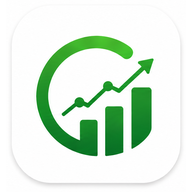
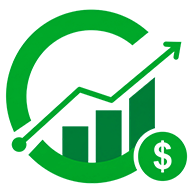
Novos icones

diff --git a/index.html b/index.html
@@ -5,8 +5,8 @@
  <meta charset="UTF-8">
  <meta name="viewport" content=" width=device-width, initial-scale=1.0">
  <title>Controle Aí </title>
- <link rel="icon" href="icon.png" type="image/png">
- <link rel="apple-touch-icon" href="icon.png">
+ <link rel="icon" href="icon-192.png" type="image/png">
+ <link rel="apple-touch-icon" href="icon-192.png">
  <link rel="manifest" href="manifest.json">
  <meta name="theme-color" content="#2e7d32">
  <meta name="apple-mobile-web-app-capable" content="yes">
@@ -1939,6 +1939,20 @@
  border-color: #4caf50
  }
 
+ .frow input[type="date"]::-webkit-calendar-picker-indicator {
+ cursor: pointer;
+ opacity: .6;
+ transition: opacity .15s
+ }
+
+ .frow input[type="date"]::-webkit-calendar-picker-indicator:hover {
+ opacity: 1
+ }
+
+ body.dark input[type="date"] {
+ color-scheme: dark
+ }
+
  body.dark .add-tag-input {
  background: #131f19;
  color: #e0e0e0;
@@ -2073,67 +2087,95 @@
  color: #81c784
  }
 
- /* --- Novo CSS para os Insights Anuais --- */
+ /* --- Cards de KPI do mês --- */
 .stats-grid {
   display: grid;
-  grid-template-columns: repeat(3, 1fr);
-  gap: 12px;
+  grid-template-columns: repeat(4, 1fr);
+  gap: 8px;
   margin-top: 14px;
 }
 
-@media(max-width: 768px) {
+@media(max-width: 900px) {
   .stats-grid {
-    grid-template-columns: repeat(2, 1fr); /* 2 colunas no celular */
+    grid-template-columns: repeat(3, 1fr);
   }
 }
 
-@media(max-width: 400px) {
+@media(max-width: 640px) {
   .stats-grid {
-    grid-template-columns: 1fr; /* 1 coluna em telas muito pequenas */
+    grid-template-columns: repeat(2, 1fr);
+  }
+}
+
+@media(max-width: 380px) {
+  .stats-grid {
+    grid-template-columns: 1fr;
   }
 }
 
 .stat-card {
   background: var(--card-bg, #fff);
   border: 1.5px solid var(--border);
-  border-radius: 16px;
-  padding: 16px;
-  transition: all 0.2s ease;
-  cursor: pointer;
+  border-radius: 12px;
+  padding: 10px 12px;
+  transition: border-color .15s, transform .15s;
+  cursor: default;
   position: relative;
   overflow: hidden;
   display: flex;
   flex-direction: column;
-  justify-content: space-between;
+  gap: 6px;
 }
 
 .stat-card:hover {
-  transform: translateY(-4px);
-  box-shadow: 0 8px 24px rgba(0, 0, 0, 0.08);
   border-color: var(--green);
-}
-
-body.dark .stat-card:hover {
-  box-shadow: 0 8px 24px rgba(0, 0, 0, 0.4);
 }
 
 .stat-card-header {
   display: flex;
-  justify-content: space-between;
-  align-items: flex-start;
-  margin-bottom: 12px;
+  align-items: center;
+  gap: 7px;
 }
 
 .stat-card-ico {
-  font-size: 20px;
+  font-size: 14px;
   background: var(--gray);
-  width: 36px;
-  height: 36px;
+  width: 24px;
+  height: 24px;
+  flex-shrink: 0;
   display: flex;
   align-items: center;
   justify-content: center;
-  border-radius: 10px;
+  border-radius: 7px;
 }
+
+.stat-card-ico svg {
+  width: 13px;
+  height: 13px
+}
+
+.stat-card-lbl {
+  font-size: 9.5px;
+  font-weight: 700;
+  color: var(--text-l);
+  text-transform: uppercase;
+  letter-spacing: .3px;
+  white-space: nowrap;
+  overflow: hidden;
+  text-overflow: ellipsis
+}
+
+.stat-card-val {
+  font-size: 15px;
+  font-weight: 800;
+  line-height: 1.15
+}
+
+.stat-card-delta {
+  font-size: 10px;
+  font-weight: 600
+}
+
 
  /* ── NOTAS ── */
  .notas-toolbar {
@@ -3977,7 +4019,7 @@ body.dark .stat-card:hover {
  <div class="landing-hero">
  <div class="landing-glow"></div>
  <div class="landing-mark">
- <img src="icon.png" alt="">
+ <img src="icon-check.png" alt="">
  </div>
  <div class="landing-title">Controle<span class="landing-title-accent">Aí</span></div>
  <div class="landing-tag">Seu dinheiro<span class="landing-dot">,</span><span class="landing-tag-accent">seu controle</span></div>
@@ -5655,12 +5697,10 @@ body.dark .stat-card:hover {
  <div class="stat-card">
  <div class="stat-card-header">
  <div class="stat-card-ico" style="color:${cor}">${ico}</div>
- <div style="font-size:10px;font-weight:700;color:var(--text-l);text-transform:uppercase;letter-spacing:.5px;text-align:right">${label}</div>
+ <div class="stat-card-lbl">${label}</div>
  </div>
- <div>
- <div style="font-size:17px;font-weight:800;color:${cor};line-height:1.2">${valor}</div>
- ${delta ? `<div style="font-size:11px;font-weight:600;margin-top:4px">${delta}</div>` : ''}
- </div>
+ <div class="stat-card-val" style="color:${cor}">${valor}</div>
+ ${delta ? `<div class="stat-card-delta">${delta}</div>` : ''}
  </div>`;
 
  e('mes-cards').className = 'stats-grid';
@@ -5751,6 +5791,25 @@ body.dark .stat-card:hover {
  const p = s.split('/');
  if (p.length !== 3) return 0;
  return new Date(+p[2], +p[1] - 1, +p[0]).getTime();
+ }
+
+ // Conversão entre formato brasileiro (dd/mm/aaaa) usado internamente
+ // e o formato ISO (aaaa-mm-dd) exigido por <input type="date">
+ function brToIso(br) {
+ if (!br) return '';
+ const p = br.split('/');
+ if (p.length !== 3) return '';
+ const [d, m, y] = p;
+ if (!d || !m || !y || y.length !== 4) return '';
+ return `${y}-${m.padStart(2, '0')}-${d.padStart(2, '0')}`;
+ }
+
+ function isoToBr(iso) {
+ if (!iso) return '';
+ const p = iso.split('-');
+ if (p.length !== 3) return '';
+ const [y, m, d] = p;
+ return `${d}/${m}/${y}`;
  }
 
  function sortArr(arr, mode) {
@@ -6635,12 +6694,10 @@ body.dark .stat-card:hover {
  <div class="stat-card">
  <div class="stat-card-header">
  <div class="stat-card-ico" style="color:${cor}">${ico}</div>
- <div style="font-size:10px;font-weight:700;color:var(--text-l);text-transform:uppercase;letter-spacing:.5px;text-align:right">${label}</div>
+ <div class="stat-card-lbl">${label}</div>
  </div>
- <div>
- <div style="font-size:17px;font-weight:800;color:${cor};line-height:1.2">${valor}</div>
- ${delta ? `<div style="font-size:11px;font-weight:600;margin-top:4px">${delta}</div>` : ''}
- </div>
+ <div class="stat-card-val" style="color:${cor}">${valor}</div>
+ ${delta ? `<div class="stat-card-delta">${delta}</div>` : ''}
  </div>`;
 
  e('saude-mes-cards').className = 'stats-grid';
@@ -6977,7 +7034,7 @@ body.dark .stat-card:hover {
  <div class="frow"><label>Categoria</label><select id="f-cat"><option value="">Selecione...</option>${catOpts}</select></div>
  <div class="frow"><label>Descrição</label><input id="f-desc" value="${item ? item.descricao : ''}" placeholder="Ex: Netflix"></div>
  <div class="frow-half">
- <div class="frow"><label>Data</label><input id="f-data" type="text" value="${item ? item.data : ''}" placeholder="dd/mm/aaaa"></div>
+ <div class="frow"><label>Data</label><input id="f-data" type="date" value="${item ? brToIso(item.data) : ''}"></div>
  <div class="frow"><label>Parcela (ex: 1/3)</label><input id="f-parcela" value="${item && item.parcela ? item.parcela : ''}" placeholder="Opcional" oninput="updateParcelaInfo()"></div>
  </div>
  ${!editId ? `<div id="parcela-info" style="display:none">
@@ -6996,7 +7053,7 @@ body.dark .stat-card:hover {
  } else if (tipo === 'ent') {
  body = `
  <div class="frow"><label>Descrição</label><input id="f-desc" value="${item ? item.descricao : ''}" placeholder="Ex: Salário"></div>
- <div class="frow"><label>Data</label><input id="f-data" type="text" value="${item ? item.data : ''}" placeholder="dd/mm/aaaa"></div>
+ <div class="frow"><label>Data</label><input id="f-data" type="date" value="${item ? brToIso(item.data) : ''}"></div>
  <div class="frow"><label>Valor (R$)</label><input id="f-valor" type="text" value="${item ? String(item.valor).replace('.', ',') : ''}" placeholder="0,00"></div>
  `;
  } else {
@@ -7066,7 +7123,7 @@ body.dark .stat-card:hover {
  if (tipo === 'gf' || tipo === 'gv') {
  const cat = e('f-cat')?.value;
  const desc = e('f-desc')?.value?.trim();
- const data = e('f-data')?.value?.trim();
+ const data = isoToBr(e('f-data')?.value);
  const parcela = e('f-parcela')?.value?.trim();
  const pag = e('f-pag')?.value;
  const valor = parseVal(e('f-valor')?.value);
@@ -7075,7 +7132,7 @@ body.dark .stat-card:hover {
  entry.pago = e('f-pago')?.checked || false;
  } else if (tipo === 'ent') {
  const desc = e('f-desc')?.value?.trim();
- const data = e('f-data')?.value?.trim();
+ const data = isoToBr(e('f-data')?.value);
  const valor = parseVal(e('f-valor')?.value);
  if (!desc) { toast('Preencha a descrição'); return; }
  entry = { descricao: desc, data: data || '', valor: Math.abs(valor) };
@@ -8522,11 +8579,11 @@ function confirmFinLimparTudo() {
  }
 
  function divideNovoEvento() {
- const hoje = new Date().toLocaleDateString('pt-BR');
+ const hoje = new Date().toISOString().slice(0, 10);
  e('modal-title').textContent = 'Novo Evento';
  e('modal-body').innerHTML = `
  <div class="frow"><label>Nome do evento</label><input id="dv-nome" placeholder="Ex: Viagem para SP, Churrasco..."></div>
- <div class="frow"><label>Data</label><input id="dv-data" type="text" value="${hoje}" placeholder="dd/mm/aaaa"></div>
+ <div class="frow"><label>Data</label><input id="dv-data" type="date" value="${hoje}"></div>
  `;
  e('modal-box').dataset.tipo = 'divide-novo-evento';
  e('overlay').classList.add('open');
@@ -8535,7 +8592,7 @@ function confirmFinLimparTudo() {
 
  function divideSalvarNovoEvento() {
  const nome = e('dv-nome')?.value.trim();
- const data = e('dv-data')?.value.trim() || new Date().toLocaleDateString('pt-BR');
+ const data = isoToBr(e('dv-data')?.value) || new Date().toLocaleDateString('pt-BR');
  if (!nome) { toast('Informe o nome do evento'); return; }
  const d = getDivideData();
  const ev = { id: 'ev-' + Date.now(), nome, data, membros: [], contas: [] };
@@ -8750,13 +8807,13 @@ function confirmFinLimparTudo() {
  <input type="checkbox" value="${m}" ${!editItem || editItem.participantes.includes(m) ? 'checked' : ''} onclick="event.stopPropagation()" style="width:16px;height:16px;cursor:pointer;accent-color:var(--green);flex-shrink:0">
  <span style="font-size:14px;font-weight:500;color:var(--text)">${m}</span>
  </div>`).join('');
- const hoje = new Date().toLocaleDateString('pt-BR');
+ const hoje = new Date().toISOString().slice(0, 10);
 
  e('modal-title').textContent = editId ? 'Editar Conta' : 'Nova Conta';
  e('modal-body').innerHTML = `
  <div class="frow"><label>Descrição</label><input id="da-desc" placeholder="Ex: Restaurante, Uber..." value="${editItem ? editItem.descricao : ''}"></div>
  <div class="frow-half">
- <div class="frow"><label>Data</label><input id="da-data" type="text" value="${editItem ? editItem.data : hoje}" placeholder="dd/mm/aaaa"></div>
+ <div class="frow"><label>Data</label><input id="da-data" type="date" value="${editItem ? brToIso(editItem.data) : hoje}"></div>
  <div class="frow"><label>Valor (R$)</label><input id="da-valor" type="text" value="${editItem ? String(editItem.valor).replace('.', ',') : ''}" placeholder="0,00"></div>
  </div>
  <div class="frow"><label>Quem pagou</label><select id="da-pago">${membrosOpts}</select></div>
@@ -8801,7 +8858,7 @@ function confirmFinLimparTudo() {
 
  function divideSalvarConta() {
  const desc = e('da-desc')?.value.trim();
- const data = e('da-data')?.value.trim() || new Date().toLocaleDateString('pt-BR');
+ const data = isoToBr(e('da-data')?.value) || new Date().toLocaleDateString('pt-BR');
  const valorRaw = e('da-valor')?.value.replace(',', '.');
  const valor = parseFloat(valorRaw);
  const pagoPor = e('da-pago')?.value;
